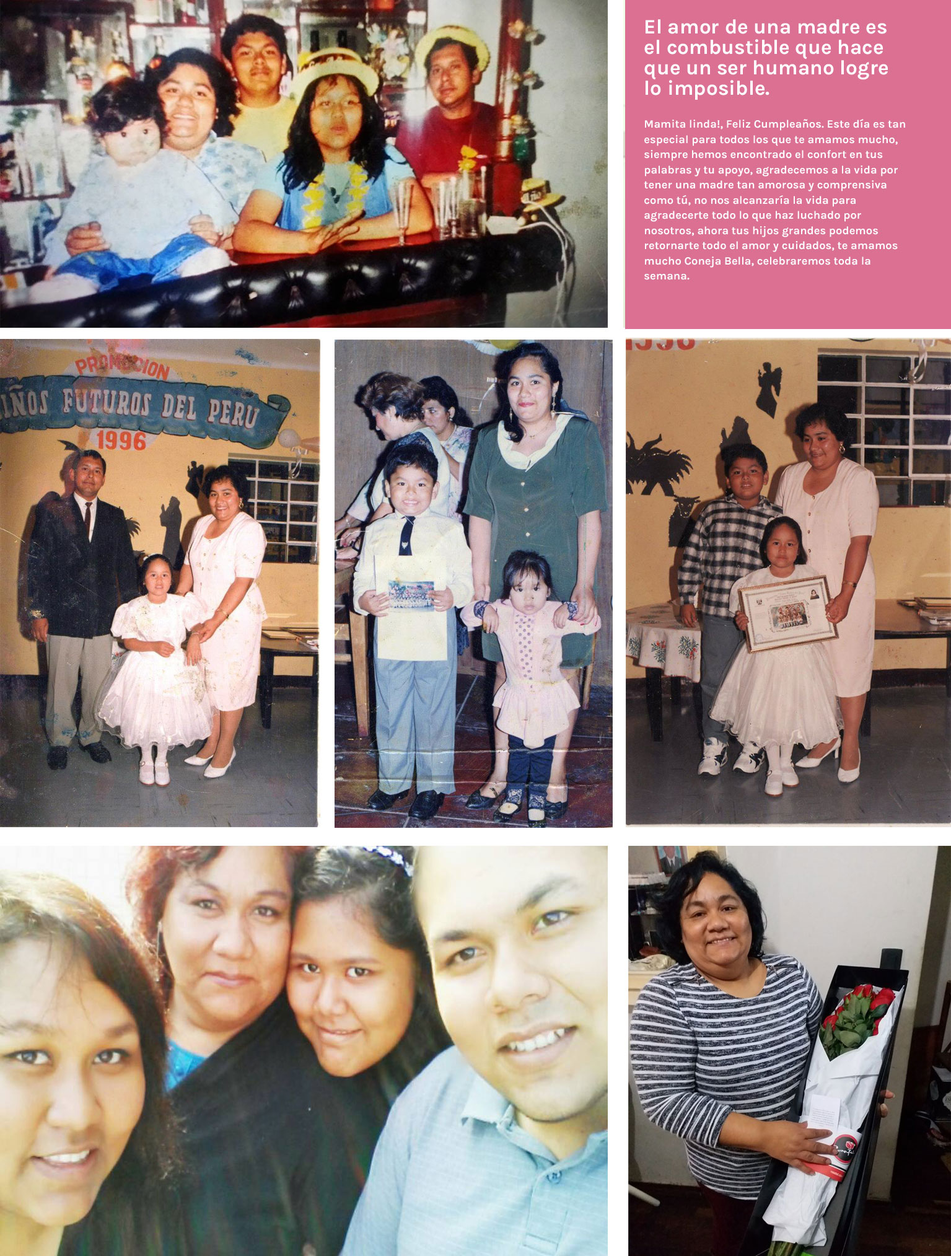
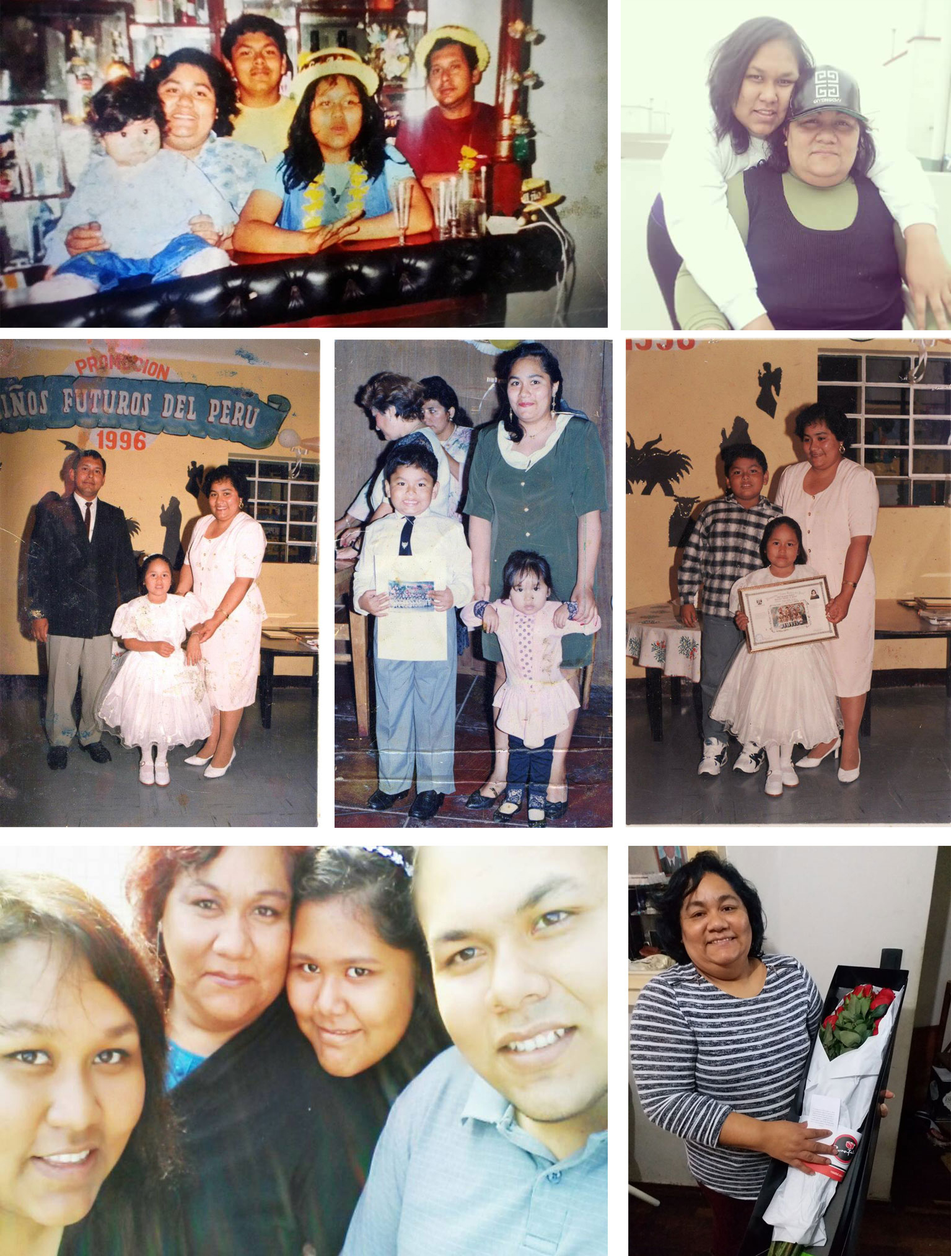
Cambio de mensaje

Changed region(s): [[0.643, 0.0, 1.0, 0.2797]]

diff --git a/css/style.css b/css/style.css
@@ -149,7 +149,7 @@ div[class*="star"] {
         line-height: 25px;
         font-weight: 700;
         font-style: italic;
-        margin: 5% 0 0 0;
+        margin: 0;
     }
 
     .header-bday{
@@ -231,7 +231,16 @@ div[class*="star"] {
         margin: 0 auto;
     }
 
-    .words-hbday,
+    .words-hbday {
+      margin: 0;
+    }
+
+    .words-hbday p {
+      width: 600px;
+      margin: 21px auto;
+      text-align: justify;
+    }
+
     .slider-hbday {
         display: none;
     }
@@ -261,6 +270,7 @@ div[class*="star"] {
     
     .header-bday div.star-gray {
         position: absolute;
+        bottom: 100px;
         width: 200px;
         right: 20%;
     }
